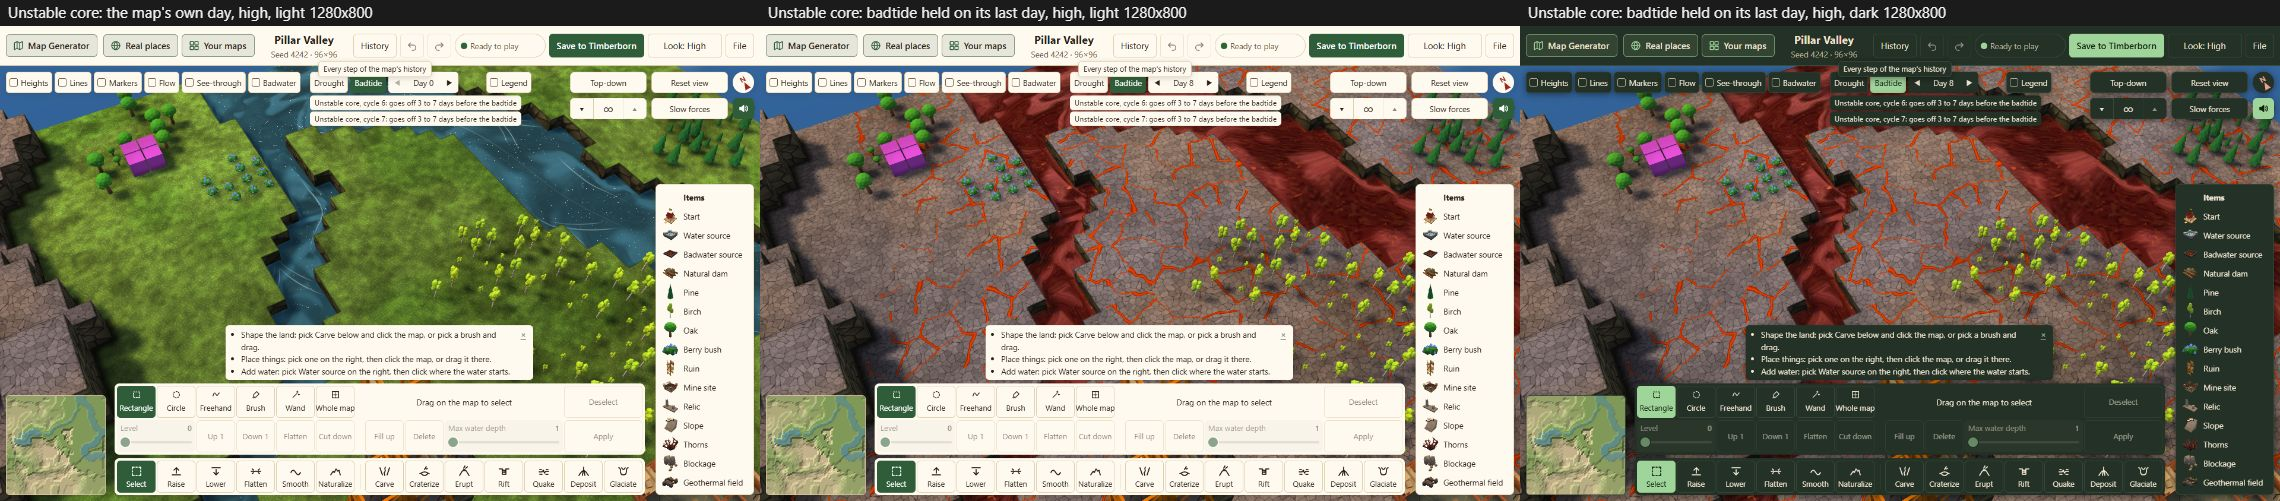
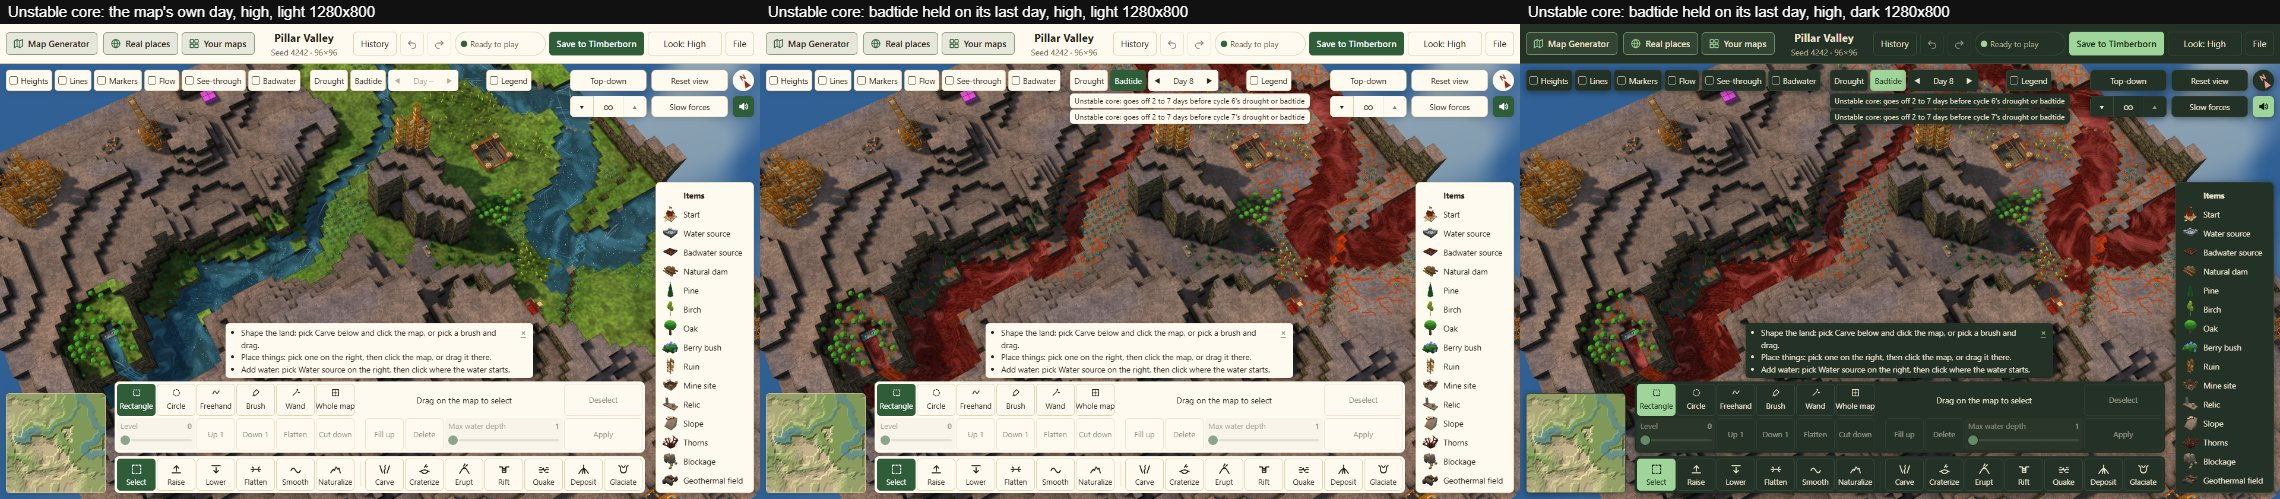
Unstable core moment: floor/ceil days, Hard a day earlier, both hazards named
The core goes off days - temperate days into the hazard, hazard day N being the Nth day (TimedComponentActivator); the note names cycle N's drought or badtide, since which one a cycle brings is random.

diff --git a/tests/unit/coreMoment.test.ts b/tests/unit/coreMoment.test.ts
@@ -1,5 +1,6 @@
 // Where an Unstable Core's moment falls against a drought or a badtide (core/sim/coreMoment.ts, D339): a core goes off
-// `days` days into its cycle; a hazard starts after the cycle's temperate days (the cycles investigation's `MODES`).
+// `days` days into its cycle; a hazard starts after the cycle's temperate days (the cycles investigation's `MODES`), so
+// it goes off `days - temperate` days into the hazard, and hazard day N is the Nth day of it.
 
 import { describe, expect, it } from "vitest";
 import { CORE } from "../../src/core/data/parity";
@@ -8,44 +9,69 @@ import { coreCountdowns, coreMoment, coreMomentNow, coreMomentWords, coreNotes, 
 import { hazardDays } from "../../src/core/sim/weather";
 
 describe("an Unstable Core's moment against the hazard of its cycle", () => {
-  it("the generator's core (cycle 5, 10.5 days) goes off before every Normal and Easy hazard, 3 to 7 days before a Normal badtide", () => {
-    const core = { cycles: CORE.cycles, days: CORE.days };
+  it("at the game's 10.5 days it goes off before every Easy and Normal hazard: 2 to 7 days before on Normal, 5 to 9 on Easy", () => {
+    const core = { cycles: 6, days: CORE.days };
+    expect(CORE.days).toBe(10.5);
     for (const d of ["easy", "normal"] as const) for (const h of ["drought", "badtide"] as const) expect(coreMoment(core, d, h).when).toBe("before");
-    const m = coreMoment(core, "normal", "badtide");
-    expect(m).toMatchObject({ cycle: 5, days: 10.5, earliest: -5.5, latest: -1.5 });
-    expect(coreMomentWords(m, "badtide")).toBe("Unstable core, cycle 5: goes off 3 to 7 days before the badtide");
-    expect(coreMomentNow(m, 1)).toBe(false);
+    const normal = coreMoment(core, "normal", "badtide");
+    expect(normal).toMatchObject({ cycle: 6, days: 10.5, earliest: -6.5, latest: -2.5 });
+    expect(coreMomentWords(normal, "badtide")).toBe("Unstable core: goes off 2 to 7 days before cycle 6's drought or badtide");
+    expect(coreMomentNow(normal, 1)).toBe(false);
+    const easy = coreMoment(core, "easy", "drought");
+    expect([easy.earliest, easy.latest]).toEqual([-8.5, -5.5]);
+    expect(coreMomentWords(easy, "drought")).toBe("Unstable core: goes off 5 to 9 days before cycle 6's drought or badtide");
   });
 
-  it("on Hard, where cycles open with 5 to 8 temperate days, it goes off during the hazard, on days 4 to 7", () => {
-    const m = coreMoment({ cycles: 5, days: 10.5 }, "hard", "drought");
+  it("on Hard, where cycles open with 5 to 8 temperate days, it goes off 2.5 to 5.5 days in: days 3 to 6 of the hazard", () => {
+    const m = coreMoment({ cycles: 6, days: 10.5 }, "hard", "drought");
     expect(m.when).toBe("during");
-    expect([m.earliest, m.latest]).toEqual([3.5, 6.5]);
-    expect(coreMomentWords(m, "drought")).toBe("Unstable core, cycle 5: goes off on days 4 to 7 of the drought");
-    expect([3, 4, 7, 8].map((d) => coreMomentNow(m, d))).toEqual([false, true, true, false]);
+    expect([m.earliest, m.latest]).toEqual([2.5, 5.5]);
+    expect(coreMomentWords(m, "drought")).toBe("Unstable core: goes off on days 3 to 6 of cycle 6's drought or badtide");
+    expect([2, 3, 6, 7].map((d) => coreMomentNow(m, d))).toEqual([false, true, true, false]);
+  });
+
+  it("a core that goes off on the hazard's last day is during it; one a day later is after it", () => {
+    const length = hazardDays("hard", "drought");
+    const [, longest] = TEMPERATE_DAYS.hard;
+    // earliest = length - 0.5: inside the hazard's last day
+    const last = coreMoment({ cycles: 6, days: longest + length - 0.5 }, "hard", "drought");
+    expect(last.when).toBe("during");
+    expect(coreMomentNow(last, length)).toBe(true);
+    // earliest = length: the hazard has just ended
+    const after = coreMoment({ cycles: 6, days: longest + length }, "hard", "drought");
+    expect(after.when).toBe("after");
+    expect(coreMomentWords(after, "drought")).toBe("Unstable core: goes off after cycle 6's drought has ended");
+    expect(coreMomentNow(after, length)).toBe(false);
   });
 
   it("a core set far later goes off after the hazard has ended; the hazard's length is the difficulty's longest", () => {
     const length = hazardDays("normal", "badtide");
-    const late = coreMoment({ cycles: 5, days: TEMPERATE_DAYS.normal[1] + length + 3 }, "normal", "badtide");
+    const late = coreMoment({ cycles: 6, days: TEMPERATE_DAYS.normal[1] + length + 3 }, "normal", "badtide");
     expect(late.when).toBe("after");
-    expect(coreMomentWords(late, "badtide")).toBe("Unstable core, cycle 5: goes off after the badtide has ended");
+    expect(coreMomentWords(late, "badtide")).toBe("Unstable core: goes off after cycle 6's badtide has ended");
   });
 
   it("a countdown that starts with the hazard goes off on its first days, or as it starts", () => {
     const m = coreMoment({ cycles: 2, days: 14 }, "normal", "drought");
     expect(m.when).toBe("during");
-    expect(coreMomentWords(m, "drought")).toBe("Unstable core, cycle 2: goes off before or on days 1 to 2 of the drought");
+    expect(coreMomentWords(m, "drought")).toBe("Unstable core: goes off before or on days 1 to 2 of cycle 2's drought or badtide");
+    expect([1, 2, 3].map((d) => coreMomentNow(m, d))).toEqual([true, true, false]);
+    // on Hard, 7 days: from 1 day before the hazard to 2 days in, so days 1 to 3
+    const hard = coreMoment({ cycles: 2, days: 7 }, "hard", "badtide");
+    expect(coreMomentWords(hard, "badtide")).toBe("Unstable core: goes off before or on days 1 to 3 of cycle 2's drought or badtide");
   });
 
   it("a map's cores are read from its features: the same moment is one note counting its cores, and a map with none has no note", () => {
     const core = (id: string, cycles: number): Feature =>
       ({ id, kind: "mapObject", origin: "generated", locked: false, params: { kind: "unstableCore", placement: { x: 5, y: 5, orientation: "Cw0" }, core: { radius: 3, cycles } } }) as unknown as Feature;
     const other = { id: "m", kind: "mapObject", origin: "generated", locked: false, params: { kind: "mineSite", placement: { x: 1, y: 1, orientation: "Cw0" } } } as unknown as Feature;
-    const features = [core("a", 5), core("b", 5), core("c", 8), other];
-    expect(coreCountdowns(features)).toEqual([{ cycles: 5, days: CORE.days }, { cycles: 5, days: CORE.days }, { cycles: 8, days: CORE.days }]);
+    const features = [core("a", 6), core("b", 6), core("c", 8), other];
+    expect(coreCountdowns(features)).toEqual([{ cycles: 6, days: CORE.days }, { cycles: 6, days: CORE.days }, { cycles: 8, days: CORE.days }]);
     const notes = coreNotes(features, "normal", "badtide", 8);
-    expect(notes.map((n) => n.text)).toEqual(["Unstable core, cycle 5: goes off 3 to 7 days before the badtide (2 cores)", "Unstable core, cycle 8: goes off 3 to 7 days before the badtide"]);
+    expect(notes.map((n) => n.text)).toEqual([
+      "Unstable core: goes off 2 to 7 days before cycle 6's drought or badtide (2 cores)",
+      "Unstable core: goes off 2 to 7 days before cycle 8's drought or badtide",
+    ]);
     expect(notes.every((n) => !n.now)).toBe(true);
     expect(coreNotes([other], "normal", "badtide", 8)).toEqual([]);
   });

diff --git a/src/core/sim/coreMoment.ts b/src/core/sim/coreMoment.ts
@@ -4,9 +4,10 @@
 //
 // The game's cycle (investigation/cycles/weather.ts `MODES`, `CycleClock`): a cycle is its temperate days, drawn
 // uniformly from the difficulty's range, then its hazard, which starts once those days have passed. A core's countdown
-// runs from the start of its cycle (`TimeActivatedComponent`: `CyclesUntilCountdownActivation`, `DaysUntilActivation`,
-// read as `fluidTime.ts` does: it goes off once `days` days of that cycle have passed), so it falls `days - temperate`
-// days into the cycle's hazard: a range, as the temperate days are drawn.
+// runs from the start of its cycle (`TimedComponentActivator`, ActivatorSystem.cs: days count from day 1 of the core's
+// cycle plus the day's progress), so it goes off `days - temperate` days into the cycle's hazard: a range, as the
+// temperate days are drawn. The view's Day N means N days into the hazard (weather.ts), so hazard day N covers the
+// offsets from N - 1 up to N.
 
 import { CORE } from "../data/parity";
 import type { Feature } from "../features/schema";
@@ -24,8 +25,8 @@ export interface CoreMoment {
   /** The cycle the core's countdown starts in, and the days of it that pass first. */
   cycle: number;
   days: number;
-  /** The hazard day the core goes off on, soonest and latest, counting the hazard's first day as day 1; 0 or less is
-   *  before the hazard starts. */
+  /** How far into the hazard the core goes off, soonest and latest, in days from the hazard's start (the game's
+   *  `days - temperate`); below 0 is before the hazard starts. */
   earliest: number;
   latest: number;
   /** Against the hazard of that cycle (its default length): always before it starts, as it starts or while it runs,
@@ -37,39 +38,41 @@ export interface CoreMoment {
 export function coreMoment(core: { cycles: number; days: number }, difficulty: Difficulty, hazard: Hazard): CoreMoment {
   const [shortest, longest] = TEMPERATE_DAYS[difficulty];
   const length = hazardDays(difficulty, hazard);
-  // (the hazard starts when `temperate` days have passed, so its day 1 is cycle day temperate + 1)
-  const earliest = core.days - longest + 1;
-  const latest = core.days - shortest + 1;
-  const when = latest <= 0 ? "before" : earliest > length ? "after" : "during";
+  // (the hazard starts once `temperate` days of the cycle have passed, and the core goes off once `days` have)
+  const earliest = core.days - longest;
+  const latest = core.days - shortest;
+  const when = latest < 0 ? "before" : earliest >= length ? "after" : "during";
   return { cycle: core.cycles, days: core.days, earliest, latest, when };
-}
-
-const HAZARD_WORDS: Record<Hazard, string> = { drought: "drought", badtide: "badtide" };
-const whole = (n: number) => Math.round(n);
-
-/** The moment in a few plain words, for the day box's note. */
-export function coreMomentWords(m: CoreMoment, hazard: Hazard): string {
-  const h = HAZARD_WORDS[hazard];
-  const cycle = `Unstable core, cycle ${m.cycle}`;
-  if (m.when === "before") {
-    const nearest = whole(-m.latest + 1);
-    const farthest = whole(-m.earliest + 1);
-    return nearest >= farthest ? `${cycle}: goes off ${plural(Math.max(1, farthest))} before the ${h}` : `${cycle}: goes off ${Math.max(1, nearest)} to ${plural(farthest)} before the ${h}`;
-  }
-  if (m.when === "after") return `${cycle}: goes off after the ${h} has ended`;
-  const a = Math.max(1, whole(m.earliest));
-  const b = Math.max(a, whole(m.latest));
-  const range = a === b ? `day ${a}` : `days ${a} to ${b}`;
-  return m.earliest <= 0 ? `${cycle}: goes off before or on ${range} of the ${h}` : `${cycle}: goes off on ${range} of the ${h}`;
 }
 
 const plural = (n: number) => `${n} ${n === 1 ? "day" : "days"}`;
 
+/** The hazard days a core may go off on, [first, last] (day 1 when it may go off before the hazard starts). */
+function hazardDayRange(m: CoreMoment): [number, number] {
+  return [Math.floor(Math.max(m.earliest, 0)) + 1, Math.floor(m.latest) + 1];
+}
+
+/** The moment in a few plain words, for the day box's note. Which hazard a cycle brings is random, so a moment that does
+ *  not depend on the hazard's length names both. */
+export function coreMomentWords(m: CoreMoment, hazard: Hazard): string {
+  const goes = "Unstable core: goes off";
+  const of = `cycle ${m.cycle}'s drought or badtide`;
+  if (m.when === "before") {
+    const nearest = Math.max(1, Math.floor(-m.latest));
+    const farthest = Math.max(1, Math.ceil(-m.earliest));
+    return nearest >= farthest ? `${goes} ${plural(farthest)} before ${of}` : `${goes} ${nearest} to ${plural(farthest)} before ${of}`;
+  }
+  if (m.when === "after") return `${goes} after cycle ${m.cycle}'s ${hazard} has ended`;
+  const [a, b] = hazardDayRange(m);
+  const range = a === b ? `day ${a}` : `days ${a} to ${b}`;
+  return m.earliest < 0 ? `${goes} before or on ${range} of ${of}` : `${goes} on ${range} of ${of}`;
+}
+
 /** Whether the held hazard day falls where the core may go off (the note lights up). */
 export function coreMomentNow(m: CoreMoment, day: number): boolean {
   if (m.when !== "during") return false;
-  const a = Math.max(1, whole(m.earliest));
-  return day >= a && day <= Math.max(a, whole(m.latest));
+  const [a, b] = hazardDayRange(m);
+  return day >= a && day <= b;
 }
 
 /** The Unstable Cores of a map's features (placed or from the generator's option) as their countdowns. A core a feature

diff --git a/tests/e2e/waterFlow.spec.ts b/tests/e2e/waterFlow.spec.ts
@@ -179,15 +179,15 @@ test("an Unstable Core's moment shows under the water row while a hazard is held
   await expect(notes).toHaveCount(0);
   await bar.getByRole("button", { name: "Badtide" }).click();
   // (this map's two cores start their countdowns in cycles 6 and 7; a Normal cycle opens with 13 to 17 temperate days,
-  // so the generator's 10.5 days put each 3 to 7 days before the badtide)
+  // so the generator's 10.5 days put each 2 to 7 days before the hazard)
   await expect(notes).toHaveText([
-    "Unstable core, cycle 6: goes off 3 to 7 days before the badtide",
-    "Unstable core, cycle 7: goes off 3 to 7 days before the badtide",
+    "Unstable core: goes off 2 to 7 days before cycle 6's drought or badtide",
+    "Unstable core: goes off 2 to 7 days before cycle 7's drought or badtide",
   ]);
   // (the row never changes shape for it)
   const box = await bar.boundingBox();
   await bar.getByRole("button", { name: "Drought" }).click();
-  await expect(notes.first()).toHaveText("Unstable core, cycle 6: goes off 3 to 7 days before the drought");
+  await expect(notes.first()).toHaveText("Unstable core: goes off 2 to 7 days before cycle 6's drought or badtide");
   expect(await bar.boundingBox()).toEqual(box);
   await bar.getByRole("button", { name: "Drought" }).click();
   await expect(notes).toHaveCount(0);

diff --git a/ROADMAP.md b/ROADMAP.md
@@ -734,8 +734,8 @@ strip, Speed, the start's-water marker and hover notes, on their own branch (`fe
    display (D286 (4)).
    **Built: the Unstable Core's moment (D339).** While a hazard is held, a quiet line under the water row says where each
    core goes off against that cycle's hazard (a core goes off `days` days into its cycle, a hazard starts after the cycle's
-   temperate days, drawn from the difficulty's range, so it is a range: the generator's core, cycle 5 and 10.5 days, goes off
-   "3 to 7 days before the badtide" on Normal), lit while the day shown is one it may go off on. `core/sim/coreMoment.ts`
+   temperate days, drawn from the difficulty's range, so it is a range: a core at cycle 5 and 10.5 days, goes off
+   "2 to 7 days before cycle 5's drought or badtide" on Normal), lit while the day shown is one it may go off on. `core/sim/coreMoment.ts`
    (pure; `tests/unit/coreMoment.test.ts`). **Open:** the held day is drawn as the map is now, never after the explosion;
    a core placed by hand with other days is read at the game's default days until the page's core options exist.
 

diff --git a/EDITOR_PLAN.md b/EDITOR_PLAN.md
@@ -663,7 +663,7 @@ Make a valley, drop a source, and there's a river.
   hazard's days are kept until the map changes and worked out in the background once the water has settled. Any
   edit while a hazard is shown ends the view at once (D269). The game's weather rules, unchanged. **An Unstable Core's
   moment** (D339): with a hazard held, a quiet line under the water row says where each core on the map goes off against
-  that cycle's hazard ("Unstable core, cycle 6: goes off 3 to 7 days before the badtide": a range, because a cycle's
+  that cycle's hazard ("Unstable core: goes off 2 to 7 days before cycle 6's drought or badtide": a range, because a cycle's
   temperate days are drawn), lit on the days it may go off on; the picture is the map as it is, never after the explosion
   (`core/sim/coreMoment.ts`).
 - **The drought line** (the Weather view, D133, D269): in the normal view every lake and river shows a faint line on
